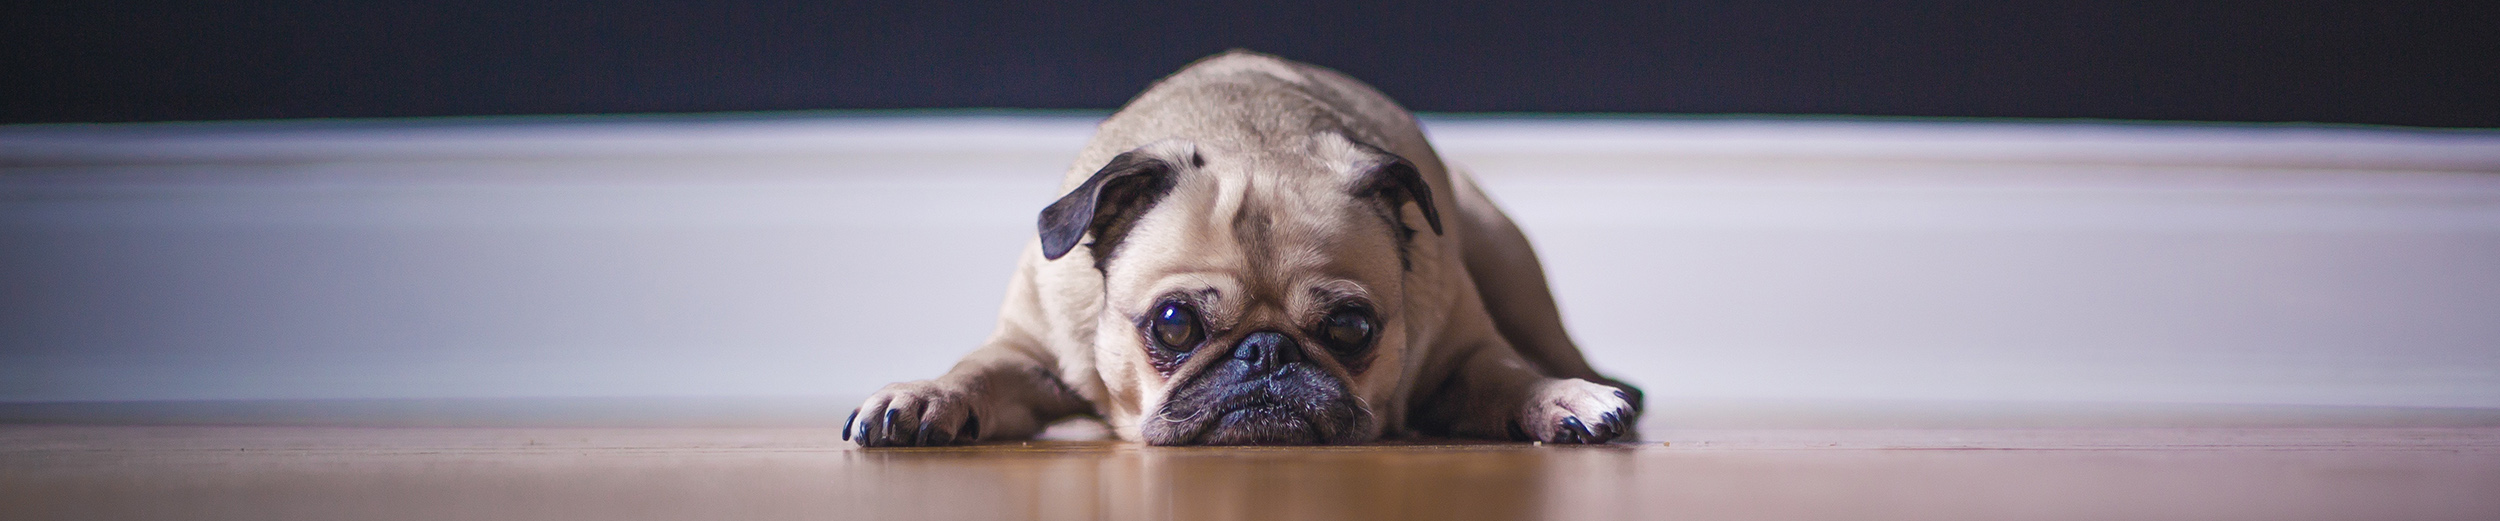
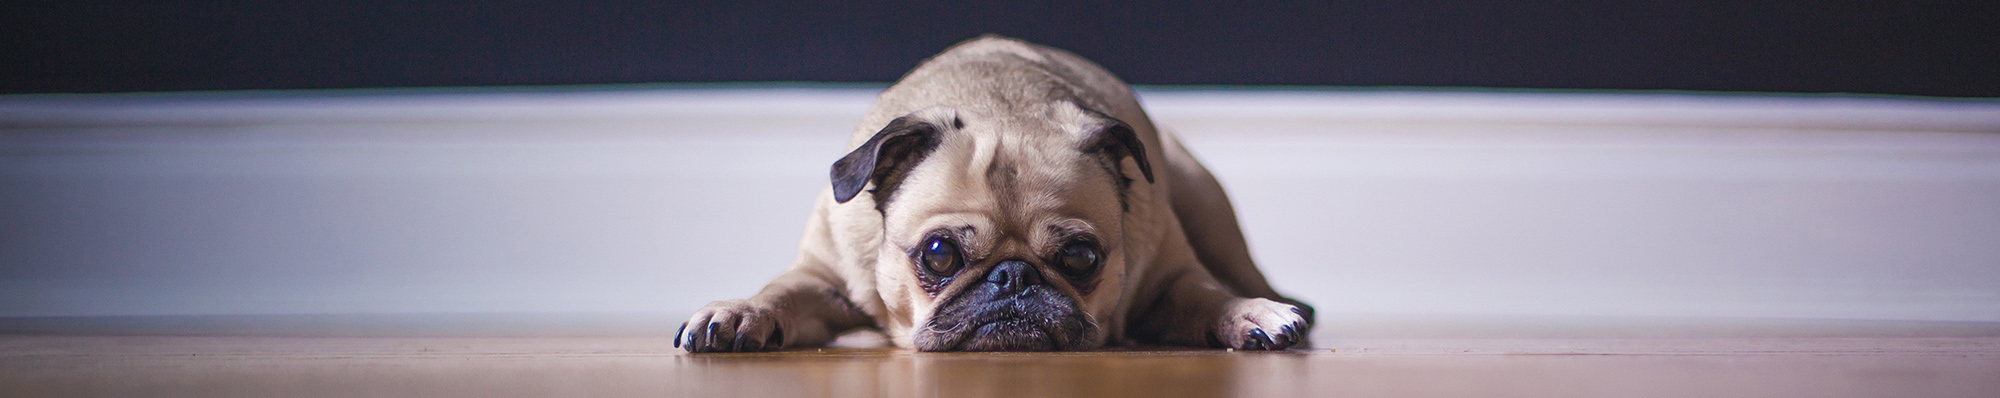
updated header image sizes and js to change images

diff --git a/assets/script.js b/assets/script.js
@@ -104,9 +104,9 @@ $(document).ready(function () {
 
   // SLIDERS
   $('.slider').slider();
-  $('.slider').slider('pause');
-  $('.indicator-item').on('click', function () {
-    $('.slider').slider('pause');
+  // $('.slider').slider('pause');
+  $('.slides').on('click', function () {
+    $(this).slider('pause');
   });
 
   // Initialize Toast Notifications
@@ -117,34 +117,7 @@ $(document).ready(function () {
     chosenPlaylist = $(this).find(":selected").val();
 
     // Changes header image for different occasions
-    if (chosenPlaylist === "lonely+songs") {
-      $("#header").css("background", "url(assets/images/cat.jpg)");
-      $("#header-text").text("Dinner with My Cat");
-    }
-    if (chosenPlaylist === "love+songs") {
-      $("#header").css("background", "url(assets/images/datenight.jpg)");
-      $("#header-text").text("Date Night");
-    }
-    if (chosenPlaylist === "dinner+party+music") {
-      $("#header").css("background", "url(assets/images/friendzone.jpg)");
-      $("#header-text").text("Friend Zone");
-    }
-    if (chosenPlaylist === "breakup+songs") {
-      $("#header").css("background", "url(assets/images/storm.jpg)");
-      $("#header-text").text("The Break Up");
-    }
-    if (chosenPlaylist === "apology+songs") {
-      $("#header").css("background", "url(assets/images/apology.jpg)")
-      $("#header-text").text("Need to Apologize");
-    }
-    if (chosenPlaylist === "hang+out+playlist") {
-      $("#header").css("background", "url(assets/images/casual.jpg)")
-      $("#header-text").text("Keeping it Casual");
-    } 
-    else {
-      $("#header").css("background", "url(assets/images/casual.jpg)")
-      $("#header-text").text("Enjoy the Mood");
-    }
+    changeHeader();
 
     console.log("chosen playlist: " + chosenPlaylist);
 
@@ -233,6 +206,7 @@ $(document).ready(function () {
   // EVENT LISTENERS FOR UPDATE MODALS
   $("#playlistUpdate").on("change", function () {
     chosenPlaylist = $(this).find(":selected").val();
+
     console.log("chosen playlist: " + chosenPlaylist);
   });
 
@@ -303,6 +277,7 @@ $(document).ready(function () {
     $("#playlist2-text").empty();
     $("#playlist3-text").empty();
     youtubeCall();
+    changeHeader();
   })
 
   $("#modal-7-close").on("click", function () {
@@ -320,6 +295,33 @@ $(document).ready(function () {
   })
 
 });
+
+function changeHeader() {
+  if (chosenPlaylist === "lonely+songs") {
+    $("#header").css("background", "url(assets/images/cat2.jpg) no-repeat center");
+    $("#header-text").text("Dinner with My Cat");
+  }
+  if (chosenPlaylist === "love+songs") {
+    $("#header").css("background", "url(assets/images/datenight.jpg) no-repeat bottom");
+    $("#header-text").text("Date Night");
+  }
+  if (chosenPlaylist === "dinner+party+music") {
+    $("#header").css("background", "url(assets/images/friendzone.jpg) no-repeat bottom");
+    $("#header-text").text("Friend Zone");
+  }
+  if (chosenPlaylist === "breakup+songs") {
+    $("#header").css("background", "url(assets/images/storm.jpg) no-repeat bottom");
+    $("#header-text").text("The Break Up");
+  }
+  if (chosenPlaylist === "apology+songs") {
+    $("#header").css("background", "url(assets/images/apology.jpg) no-repeat bottom")
+    $("#header-text").text("Need to Apologize");
+  }
+  if (chosenPlaylist === "hang+out+playlist") {
+    $("#header").css("background", "url(assets/images/casual.jpg) no-repeat bottom")
+    $("#header-text").text("Keeping it Casual");
+  } 
+};
 
 
 function youtubeCall() {

diff --git a/index.html b/index.html
@@ -11,7 +11,7 @@
     <script src="assets/script.js"></script>
 
     <script src="assets/firebase.js"></script>
-    <script src="https://www.gstatic.com/firebasejs/4.12.0/firebase.js"></script> -->
+    <script src="https://www.gstatic.com/firebasejs/4.12.0/firebase.js"></script>
 
     <script src="https://rawgit.com/moment/moment/2.2.1/min/moment.min.js"></script>
 
@@ -26,8 +26,8 @@
     <!-- -- MAIN HEADER -- This is a full-width header section that can be changed with javascript depending on the "occasion" -->
     <div class="row">
         <div id="header" class="col s12 center-align hide">
-            <h1 id="header-text"></h1>
-            <img id="logo1a" src="assets/IMAGES/moodifylogo1a.png" alt="moodifylogo" height="80" width="80">
+            <h1 id="header-text">Enjoy the Mood</h1>
+            <!-- <img id="logo1a" src="assets/IMAGES/moodifylogo1a.png" alt="moodifylogo" height="80" width="80"> -->
 
         </div>
     </div>

diff --git a/assets/style.css b/assets/style.css
@@ -117,11 +117,16 @@ form {
 
 #header {
     height: 200px;
-    background: url(images/storm.jpg);
+    background: url(images/genmood.jpg) no-repeat;
+    background-size: cover;
 }
 #header h1 {
     margin: 4rem auto;
     color: #f0e3e6;
+    font-weight: 600;
+    /* background: rgb(83, 82, 82, .4);
+    display: inline-block;
+    padding: 10px; */
 }
 .main {
     width: 100%;
